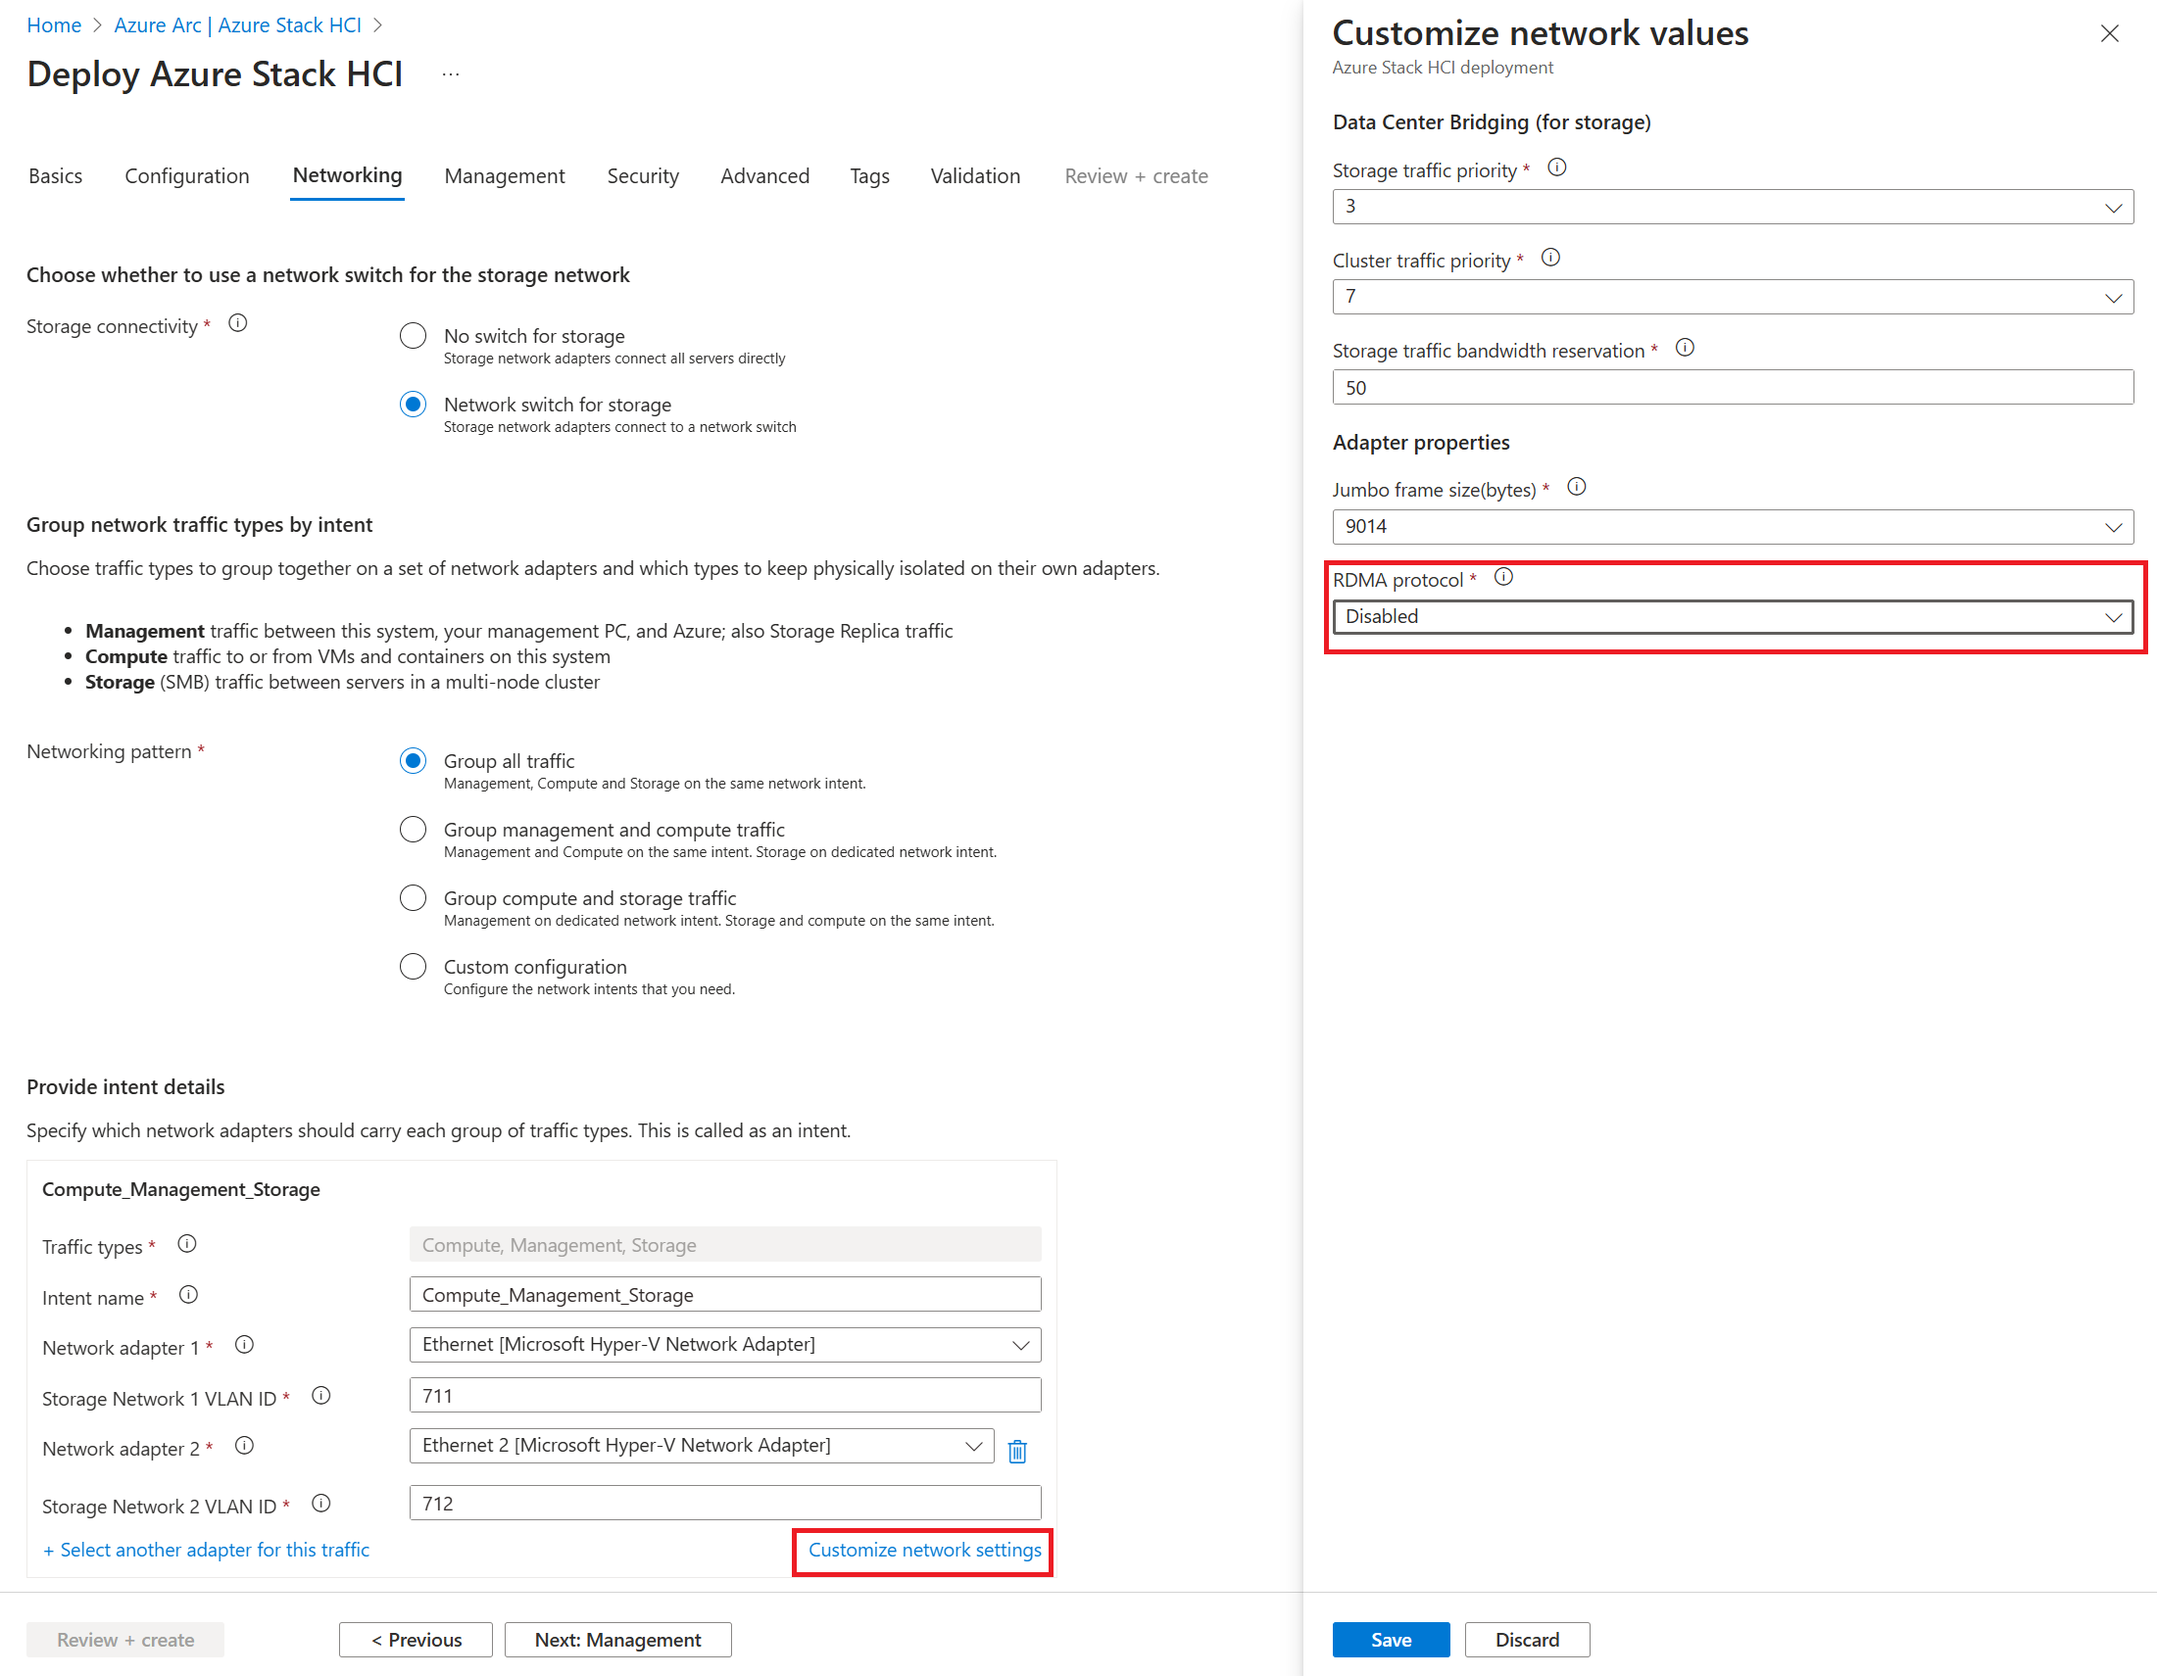
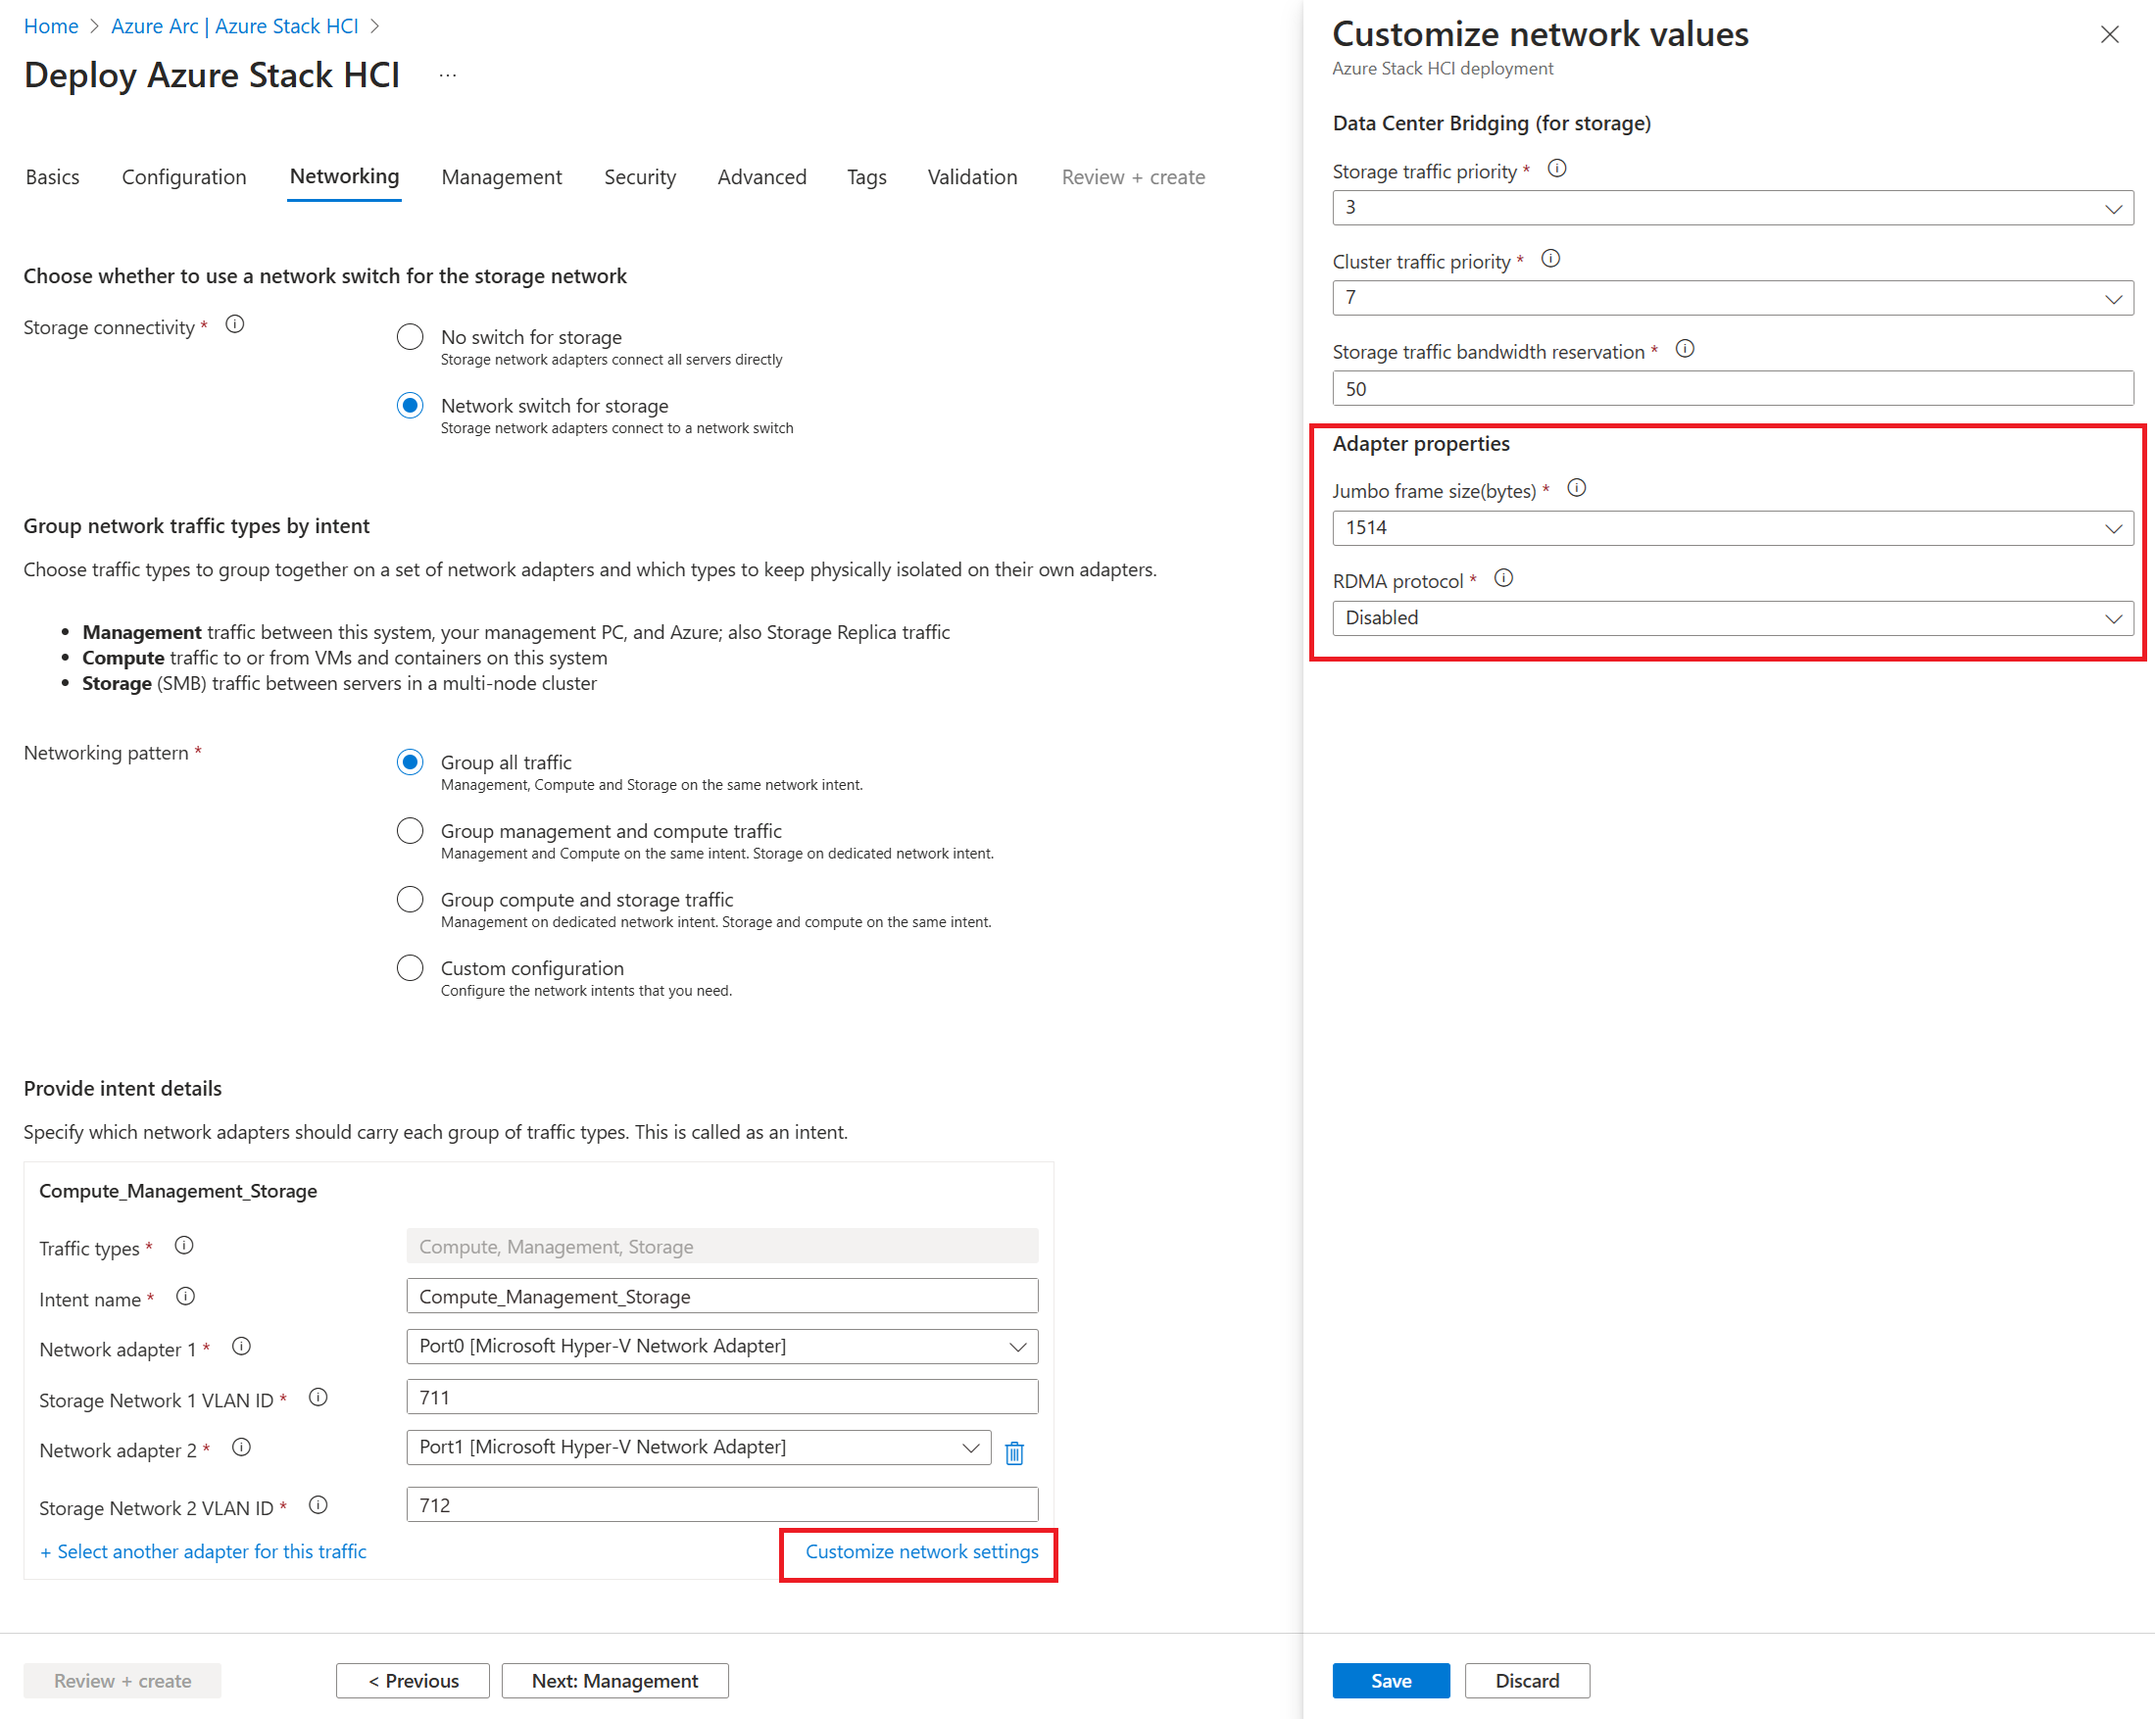
2405 fix

diff --git a/lab-guides/01a-DeployAzureStackHCICluster-CloudBasedDeployment/readme.md b/lab-guides/01a-DeployAzureStackHCICluster-CloudBasedDeployment/readme.md
@@ -140,6 +140,8 @@ $Location="eastus"
     if (!(Get-InstalledModule -Name az.accounts -ErrorAction Ignore)){
         Install-Module -Name Az.Accounts -Force 
     }
+    #disable WAM https://learn.microsoft.com/en-us/powershell/azure/authenticate-interactive?view=azps-12.0.0#disable-wam
+    Update-AzConfig -EnableLoginByWam $false
     if (-not (Get-AzContext)){
         Connect-AzAccount -UseDeviceAuthentication
     }
@@ -515,6 +517,7 @@ Networking
     Network adapter 2 VLAN ID:  712 (default)
 
     RDMA Protocol:              Disabled (in case you are running lab in VMs)
+    Jumbo Frames:               1514 (in case you are running lab in VMs as hyper-v does not by default support Jumbo Frames)
 
     Starting IP:                10.0.0.111
     ENding IP:                  10.0.0.116
